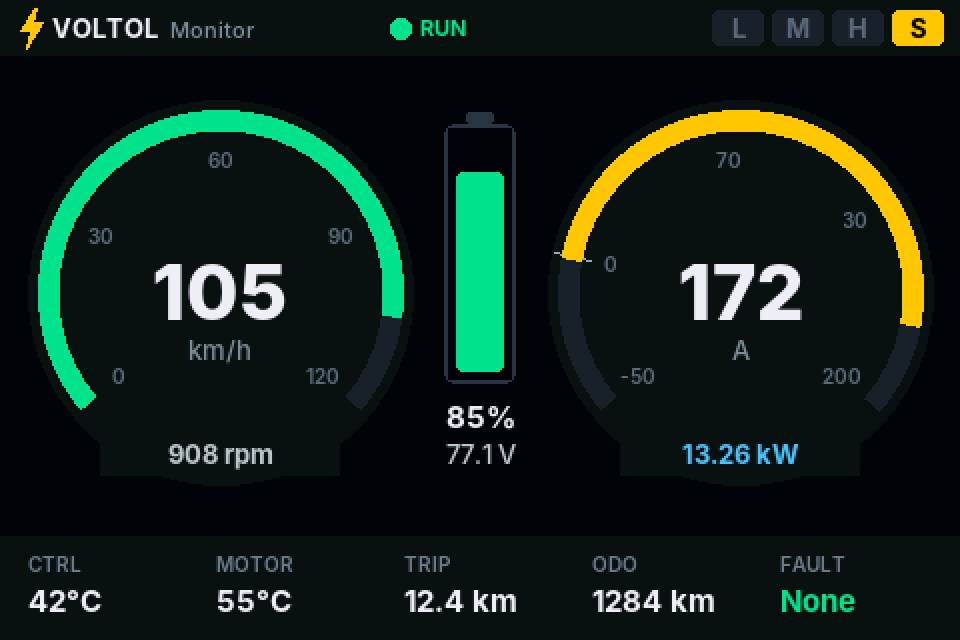
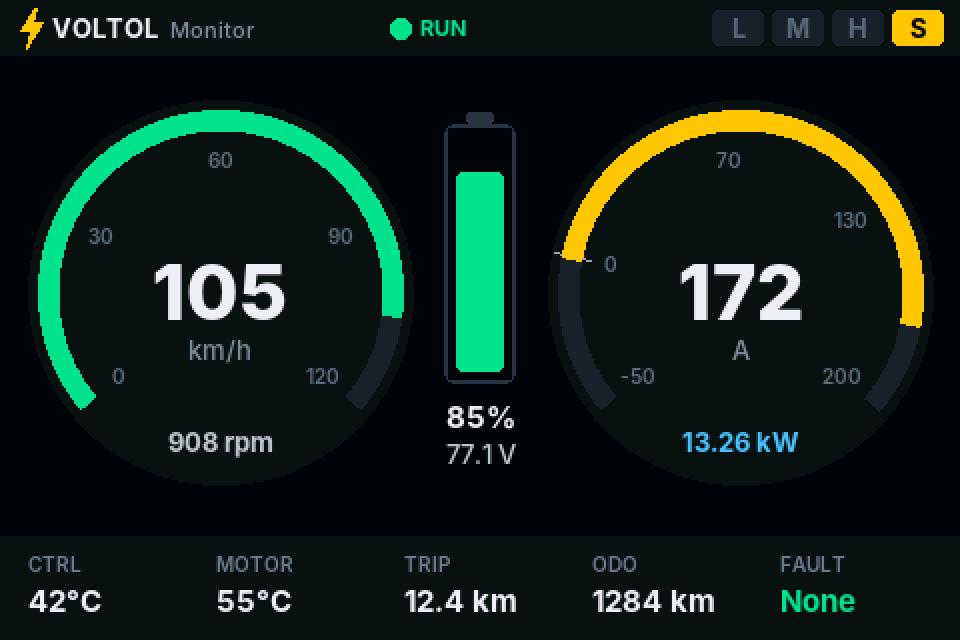
Fix twin-gauge layout; CI: keep render log, always build
Claude-Session: https://claude.ai/code/session_01VYdSakqha4zwQ41qzujXNh

Changed region(s): [[0.6875, 0.6562, 0.8438, 0.75], [0.1562, 0.6562, 0.2812, 0.75]]

diff --git a/src/ui.cpp b/src/ui.cpp
@@ -350,16 +350,16 @@ static void dashC(Gfx &g, const UiState &s, const Settings &c, bool full) {
     g.textMid(210, 14, st, F11B, sc == TEXT ? RED : sc);
   });
   g.boxed(356, 4, 116, 20, BAR, [&] { gears(g, 356, 5, 26, s); });
-  g.boxed(LX - 52, Y0 - 44, 104, 60, 0x0B1117, [&] { g.text(LX, Y0 + 14, v.kmh, s.kmh >= 99.5f ? F38B : F56B, s.linked ? TEXT : DIM, AL_C); });
-  g.boxed(RX - 52, Y0 - 44, 104, 60, 0x0B1117, [&] {
+  g.boxed(LX - 46, Y0 - 44, 92, 60, 0x0B1117, [&] { g.text(LX, Y0 + 14, v.kmh, s.kmh >= 99.5f ? F38B : F56B, s.linked ? TEXT : DIM, AL_C); });
+  g.boxed(RX - 46, Y0 - 44, 92, 60, 0x0B1117, [&] {
     char t[8]; snprintf(t, 8, "%d", s.linked ? (int)lroundf(s.live.amp) : 0);
     g.text(RX, Y0 + 14, s.linked ? t : "--", fabsf(s.live.amp) >= 99.5f ? F38B : F56B, s.linked ? TEXT : DIM, AL_C);
   });
-  g.boxed(LX - 60, Y0 + 70, 120, 22, 0x0B1117, [&] {
-    char t[24]; snprintf(t, 24, "%s rpm", v.rpm); g.text(LX, Y0 + 86, t, F13B, SUB, AL_C);
+  g.boxed(LX - 44, Y0 + 66, 88, 18, 0x0B1117, [&] {
+    char t[24]; snprintf(t, 24, "%s rpm", v.rpm); g.text(LX, Y0 + 80, t, F13B, SUB, AL_C);
   });
-  g.boxed(RX - 60, Y0 + 70, 120, 22, 0x0B1117, [&] {
-    char t[24]; snprintf(t, 24, "%s kW", v.kw); g.text(RX, Y0 + 86, t, F13B, BLUE, AL_C);
+  g.boxed(RX - 44, Y0 + 66, 88, 18, 0x0B1117, [&] {
+    char t[24]; snprintf(t, 24, "%s kW", v.kw); g.text(RX, Y0 + 80, t, F13B, BLUE, AL_C);
   });
   g.boxed(224, 64, 32, 126, BG, [&] {
     int fh = s.linked ? 118 * s.soc / 100 : 0;
